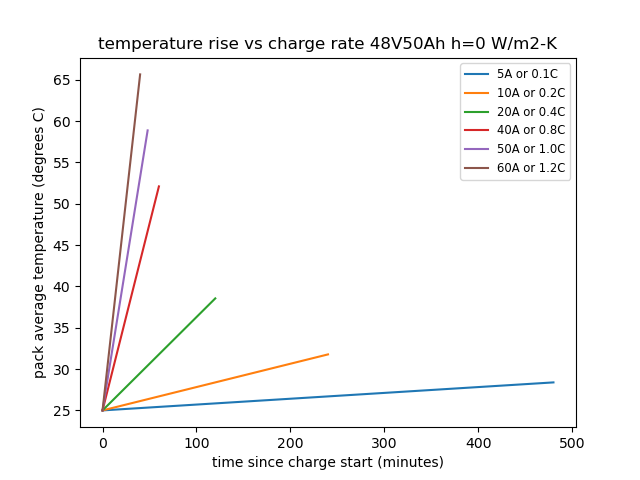
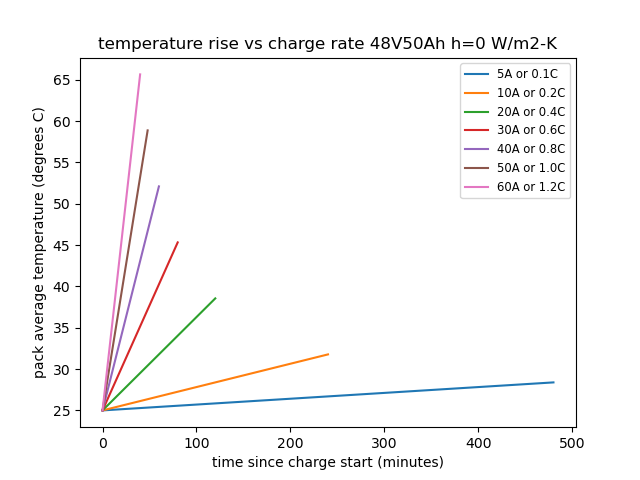
add 30A

Changed region(s): [[0.1562, 0.1562, 0.2812, 0.8438], [0.7188, 0.25, 0.9062, 0.4062]]

diff --git a/test.py b/test.py
@@ -14,7 +14,7 @@ actual_area = 130 * (0.070 * 0.021 * np.pi + 2 * np.pi * 0.0105**2) #m2
 
 # heat transfer coefficient
 # randomly assigned by hand
-h = 50 #w/K/m2
+h = 10 #w/K/m2
 
 # centigrade
 tout = outside_temp = 25
@@ -26,7 +26,7 @@ h_sp = 900
 m = 9.2
 
 # test currents
-currents = [5,10,20,40,50,60]
+currents = [5,10,20,30,40,50,60]
 
 # pack resistance
 r = 0.03 * 13 / 10
